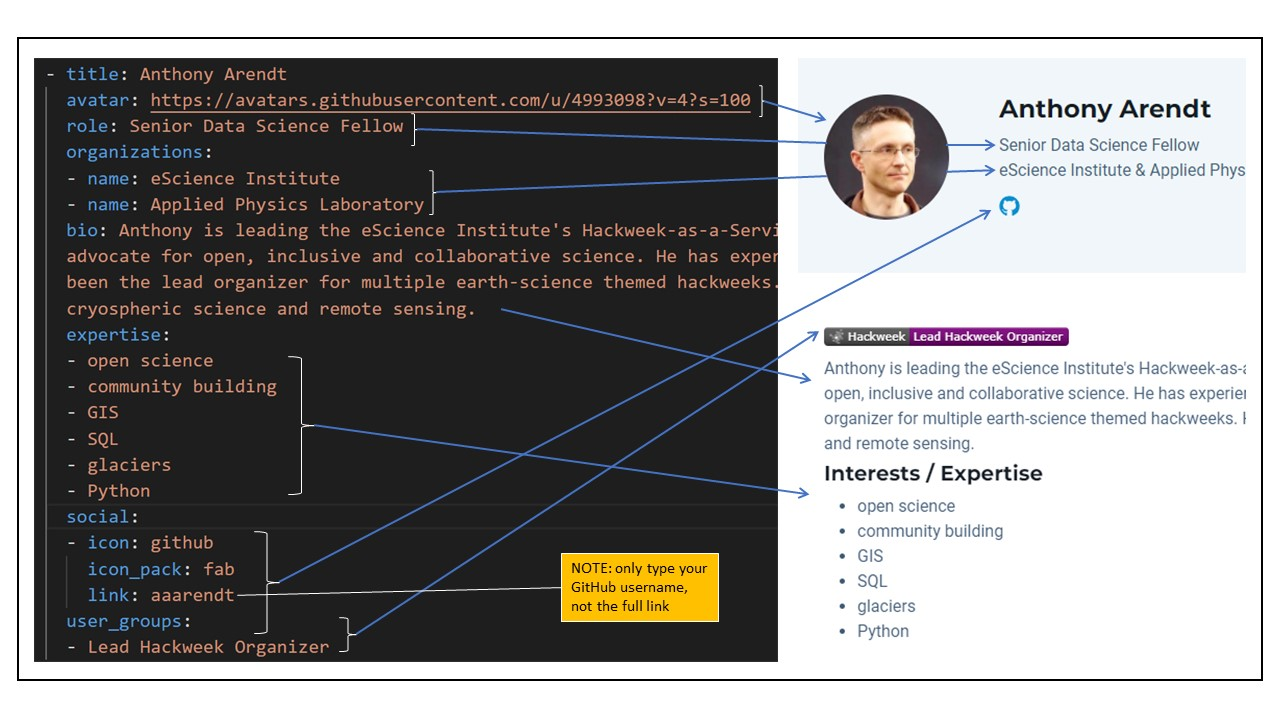
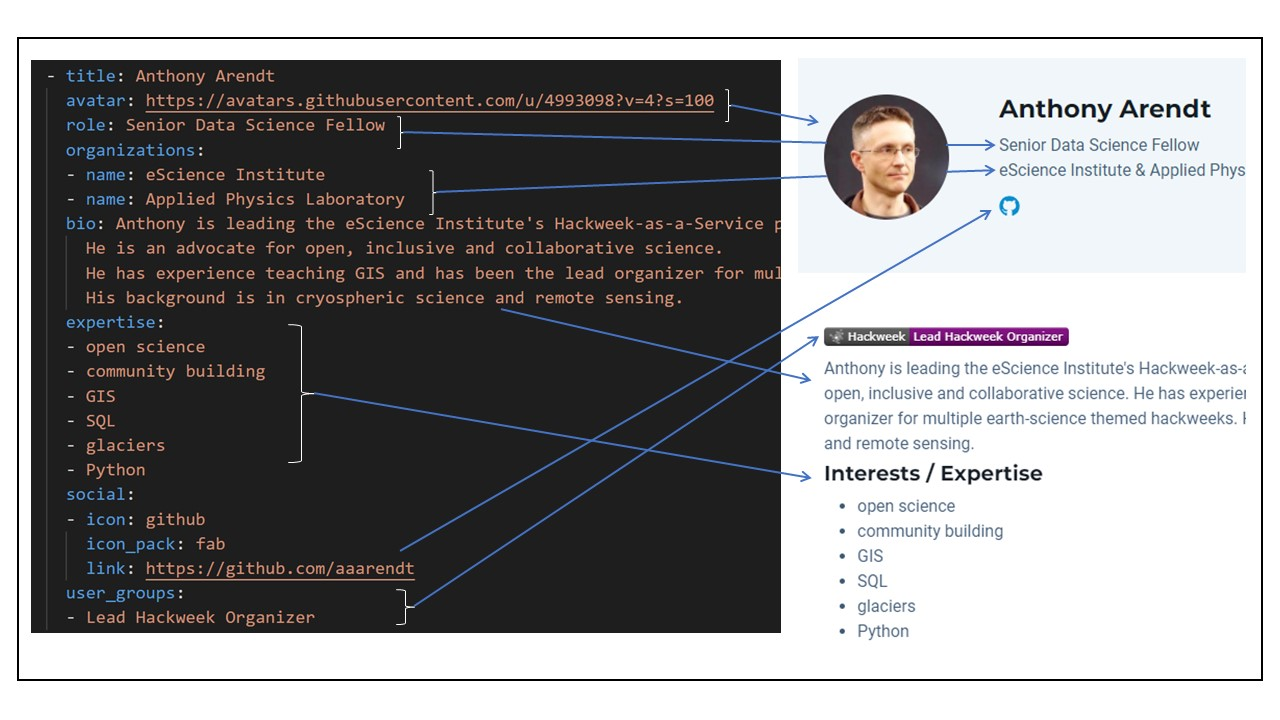
Tutorials/fix instructions (#28)
* update figure to show we need full github link

* change instruction to say you have to include fill github link

diff --git a/docs/resources/recognition.md b/docs/resources/recognition.md
@@ -38,7 +38,7 @@ We use this YAML markdown template for each team member.
 **Notes:**
 - You must precisely follow the indentation and spacing layout shown here, so that the website correctly interprets the YAML format.
 - We encourage everyone to use their GitHub avatar as the source of their personal photograph.
-- Only your GitHub username (not a full url) is required for the `link` key under `social`.
+- Provide your GitHub username, together with the full url, for the `link` key under `social`.
 - Acceptable user groups (roles) can be found [here](https://uwhackweek.github.io/hackweeks-as-a-service/services/index.html).
 
 ### Uploading to the website
